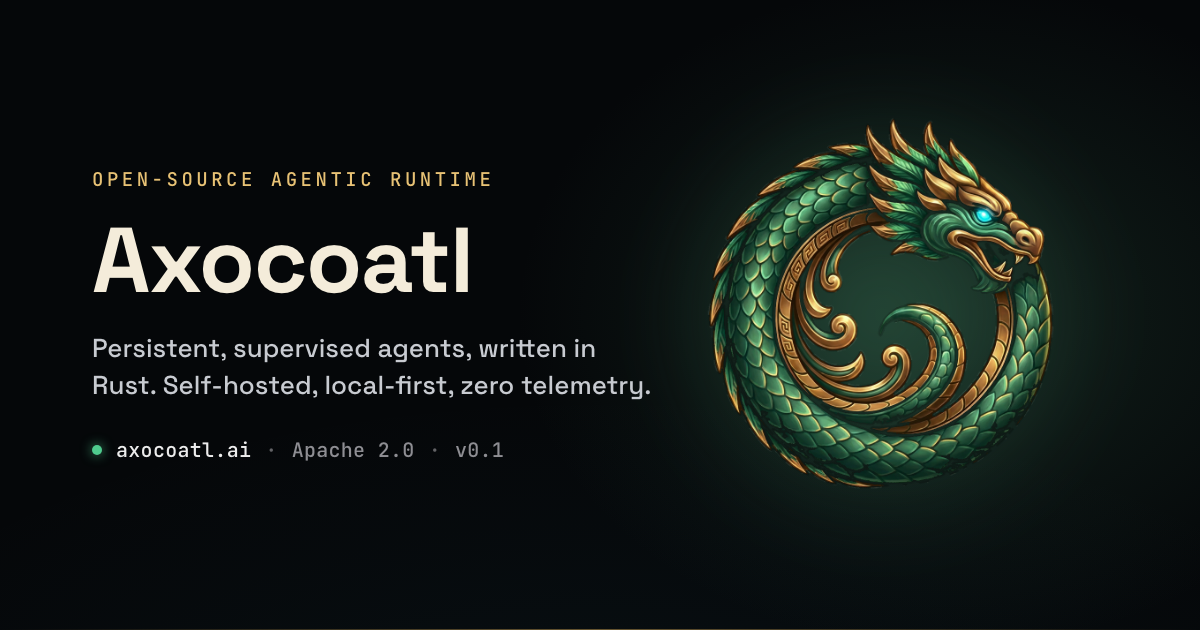
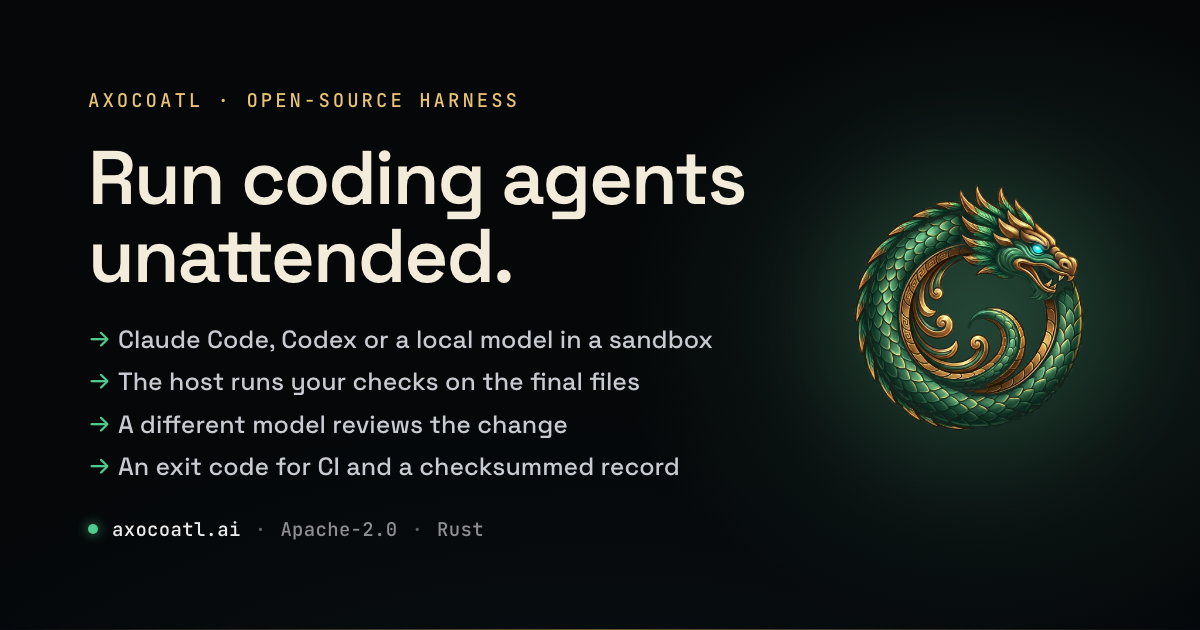
Render the social cards with the 1.3 message and add a GitHub preview
The Open Graph card still said "local-first coding workbench" from 1.0.
launch-card.html now leads with running coding agents unattended: the
writer in a sandbox, host-run checks, review by a different model, an exit
code and a checksummed record. It takes its size from ?w=&h=, and
render-cards.mjs renders it with the browser tests' Playwright Chromium to
og-home.png and launch-card.png (1200x630) and to a new
github-social-preview.png (1280x640) for the repository settings.

diff --git a/branding/launch-card.html b/branding/launch-card.html
@@ -2,49 +2,59 @@
 <html lang="en">
 <head>
 <meta charset="utf-8" />
+<!--
+  Source of the social cards. render-cards.mjs opens this file at two sizes:
+  1200x630 -> sites/marketing/assets/og-home.png (and branding/launch-card.png)
+  1280x640 -> branding/github-social-preview.png
+  The size comes from ?w=…&h=…; without it the card is 1200x630.
+-->
 <link rel="preconnect" href="https://fonts.googleapis.com" />
 <link rel="preconnect" href="https://fonts.gstatic.com" crossorigin />
-<link rel="stylesheet" href="https://fonts.googleapis.com/css2?family=Space+Grotesk:wght@500;600;700&family=JetBrains+Mono:wght@500&display=swap" />
+<link rel="stylesheet" href="https://fonts.googleapis.com/css2?family=Space+Grotesk:wght@500;600&family=JetBrains+Mono:wght@500&display=swap" />
 <style>
+  :root { --w: 1200px; --h: 630px; }
   * { box-sizing: border-box; margin: 0; padding: 0; }
-  html, body { width: 1200px; height: 630px; }
+  html, body { width: var(--w); height: var(--h); background: #050709; }
   .card {
     position: relative;
-    width: 1200px; height: 630px;
+    width: var(--w); height: var(--h);
     overflow: hidden;
-    display: flex; align-items: center; justify-content: space-between;
-    padding: 0 92px;
+    display: flex; align-items: center; justify-content: space-between; gap: 40px;
+    padding: 0 80px 0 88px;
     background:
-      radial-gradient(58% 86% at 79% 50%, rgba(62, 124, 92, 0.22), transparent 62%),
+      radial-gradient(52% 80% at 84% 50%, rgba(62, 124, 92, 0.24), transparent 64%),
       radial-gradient(130% 120% at 50% 128%, rgba(63, 169, 200, 0.06), transparent 55%),
       #050709;
     font-family: "Space Grotesk", system-ui, sans-serif;
     -webkit-font-smoothing: antialiased;
   }
-  /* faint metalwork hairline, bottom — a nod to the bronze Greek-key border */
+  /* bronze hairline along the bottom edge */
   .card::after {
     content: "";
     position: absolute; left: 0; bottom: 0; width: 100%; height: 1px;
     background: linear-gradient(90deg, transparent, rgba(181, 144, 74, 0.55), transparent);
   }
-  .copy { position: relative; z-index: 2; max-width: 650px; }
+  .copy { position: relative; z-index: 2; max-width: 700px; }
   .eyebrow {
+    display: flex; align-items: center; gap: 14px;
     font-family: "JetBrains Mono", monospace;
-    font-size: 19px; font-weight: 500; letter-spacing: 3.5px;
-    color: #E8C275; margin-bottom: 22px;
+    font-size: 19px; font-weight: 500; letter-spacing: 3px;
+    color: #E8C275; margin-bottom: 26px;
   }
   h1 {
-    font-size: 82px; font-weight: 700; letter-spacing: -1.5px;
-    color: #F4ECDA; line-height: 1; margin-bottom: 24px;
+    font-size: 76px; font-weight: 600; letter-spacing: -2px;
+    color: #F4ECDA; line-height: 1.02; margin-bottom: 28px;
   }
-  .sub {
-    font-size: 26px; font-weight: 500; line-height: 1.42;
-    color: #C8CBD1; max-width: 620px; margin-bottom: 34px;
+  .facts { list-style: none; display: grid; gap: 10px; margin-bottom: 34px; }
+  .facts li {
+    position: relative; padding-left: 30px;
+    font-size: 25px; font-weight: 500; line-height: 1.3; color: #C8CBD1;
   }
+  .facts li::before { content: "→"; position: absolute; left: 0; color: #4FCB8E; }
   .meta {
     display: flex; align-items: center; gap: 14px;
     font-family: "JetBrains Mono", monospace;
-    font-size: 20px; font-weight: 500; letter-spacing: 0.3px; color: #ECECEC;
+    font-size: 19px; font-weight: 500; letter-spacing: 0.3px; color: #ECECEC;
   }
   .meta .dot { width: 10px; height: 10px; border-radius: 50%; background: #4FCB8E;
                box-shadow: 0 0 12px rgba(79, 203, 142, 0.8); }
@@ -53,22 +63,34 @@
 
   .markwrap { position: relative; z-index: 2; flex: none; display: grid; place-items: center; }
   .markwrap .glow {
-    position: absolute; width: 520px; height: 520px; border-radius: 50%;
+    position: absolute; width: 440px; height: 440px; border-radius: 50%;
     background: radial-gradient(circle, rgba(62, 124, 92, 0.45), rgba(62,124,92,0.0) 65%);
     filter: blur(26px);
   }
-  .markwrap img { position: relative; width: 410px; height: 410px; display: block; }
+  .markwrap img { position: relative; width: 300px; height: 300px; display: block; }
 </style>
+<script>
+  const size = new URLSearchParams(location.search);
+  const w = Number(size.get('w')) || 1200;
+  const h = Number(size.get('h')) || 630;
+  document.documentElement.style.setProperty('--w', `${w}px`);
+  document.documentElement.style.setProperty('--h', `${h}px`);
+</script>
 </head>
 <body>
   <div class="card">
     <div class="copy">
-      <div class="eyebrow">LOCAL-FIRST CODING WORKBENCH</div>
-      <h1>Axocoatl</h1>
-      <p class="sub">A durable Session for agent work: conversation, context, repository tools, history, and deliberate Git control.</p>
+      <div class="eyebrow">AXOCOATL · OPEN-SOURCE HARNESS</div>
+      <h1>Run coding agents<br>unattended.</h1>
+      <ul class="facts">
+        <li>Claude Code, Codex or a local model in a sandbox</li>
+        <li>The host runs your checks on the final files</li>
+        <li>A different model reviews the change</li>
+        <li>An exit code for CI and a checksummed record</li>
+      </ul>
       <div class="meta">
         <span class="dot"></span>axocoatl.ai
-        <span class="sep">·</span><span class="dim">Apache 2.0</span>
+        <span class="sep">·</span><span class="dim">Apache-2.0</span>
         <span class="sep">·</span><span class="dim">Rust</span>
       </div>
     </div>

diff --git a/branding/README.md b/branding/README.md
@@ -13,6 +13,9 @@ Single canonical mark.  Every brand asset descends from `mark.png`.
 | `wordmark-vellum.png` | PNG | any size  | Wordmark composited on ink background.               |
 | `colors.json`     | JSON | code         | Palette source of truth.                             |
 | `SERPENT-AXIOM.md`| MD   | docs         | Character spec — drives every serpent generation.    |
+| `launch-card.html`| HTML | source       | Source of the social cards below.                    |
+| `launch-card.png` | PNG  | 1200×630     | Open Graph card; the site ships it as `sites/marketing/assets/og-home.png`. |
+| `github-social-preview.png` | PNG | 1280×640 | GitHub repository social preview (uploaded by hand in the repository settings). |
 
 ## Palette
 
@@ -39,6 +42,17 @@ checker background to clean alpha, then promoted to `branding/mark.png`.
 `tools/wordmark.py` composes the mark inline between the letters `ax`
 and `atl` (Space Grotesk SemiBold).  Re-run after any `mark.png`
 replacement to regenerate `wordmark.png` + the ink/vellum variants.
+
+## How the social cards are made
+
+`launch-card.html` lays out the card at any size given as `?w=…&h=…`.
+`node branding/render-cards.mjs` renders it with the Playwright Chromium the
+browser tests install (`cd axocoatl-server/browser-tests && npm ci && npx
+playwright install chromium`) and writes `sites/marketing/assets/og-home.png`,
+`launch-card.png` and `github-social-preview.png`. It loads Space Grotesk and
+JetBrains Mono from Google Fonts, so it needs the network. Re-render after
+changing the card's copy, and keep the `og:image:alt` text of the marketing
+pages in step with it.
 
 ## Single-mark rule
 
